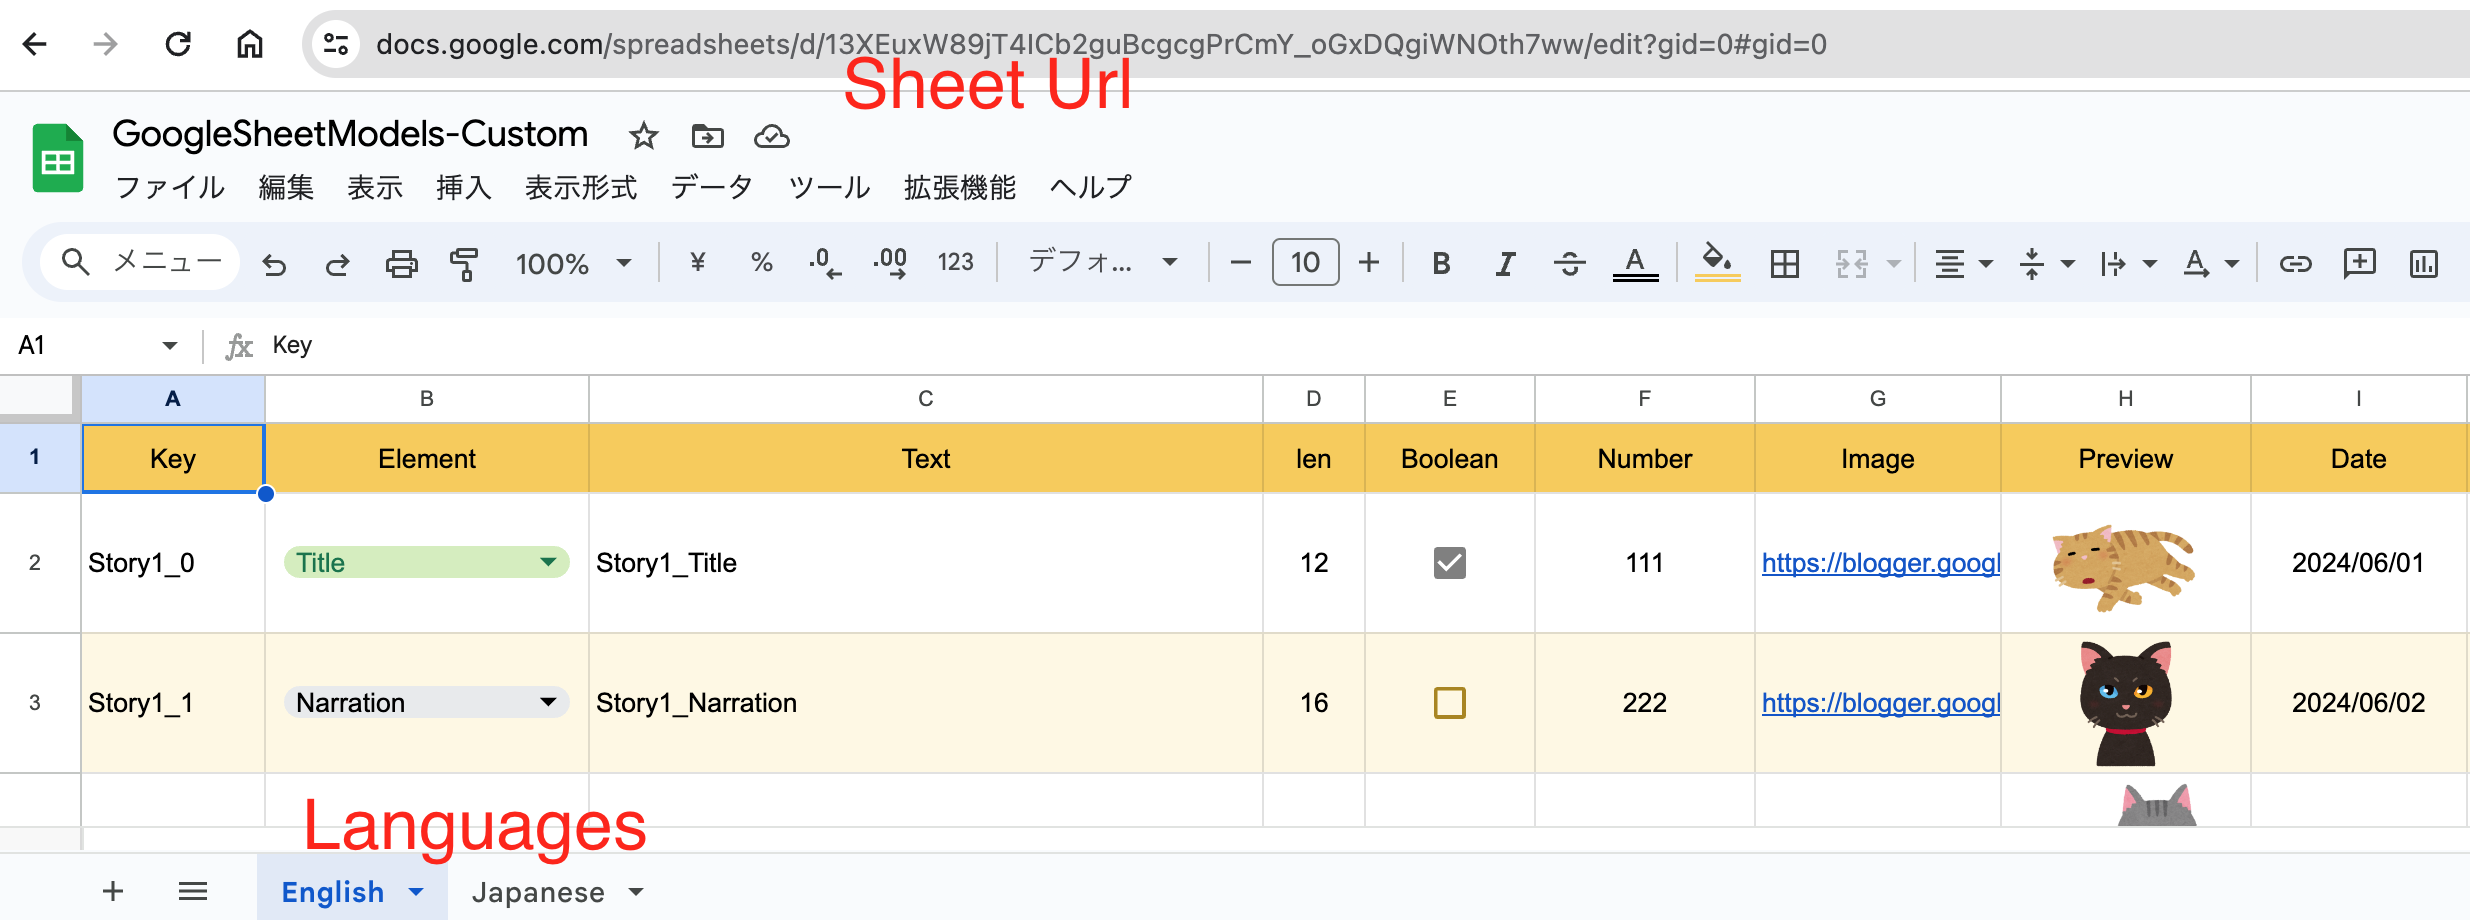
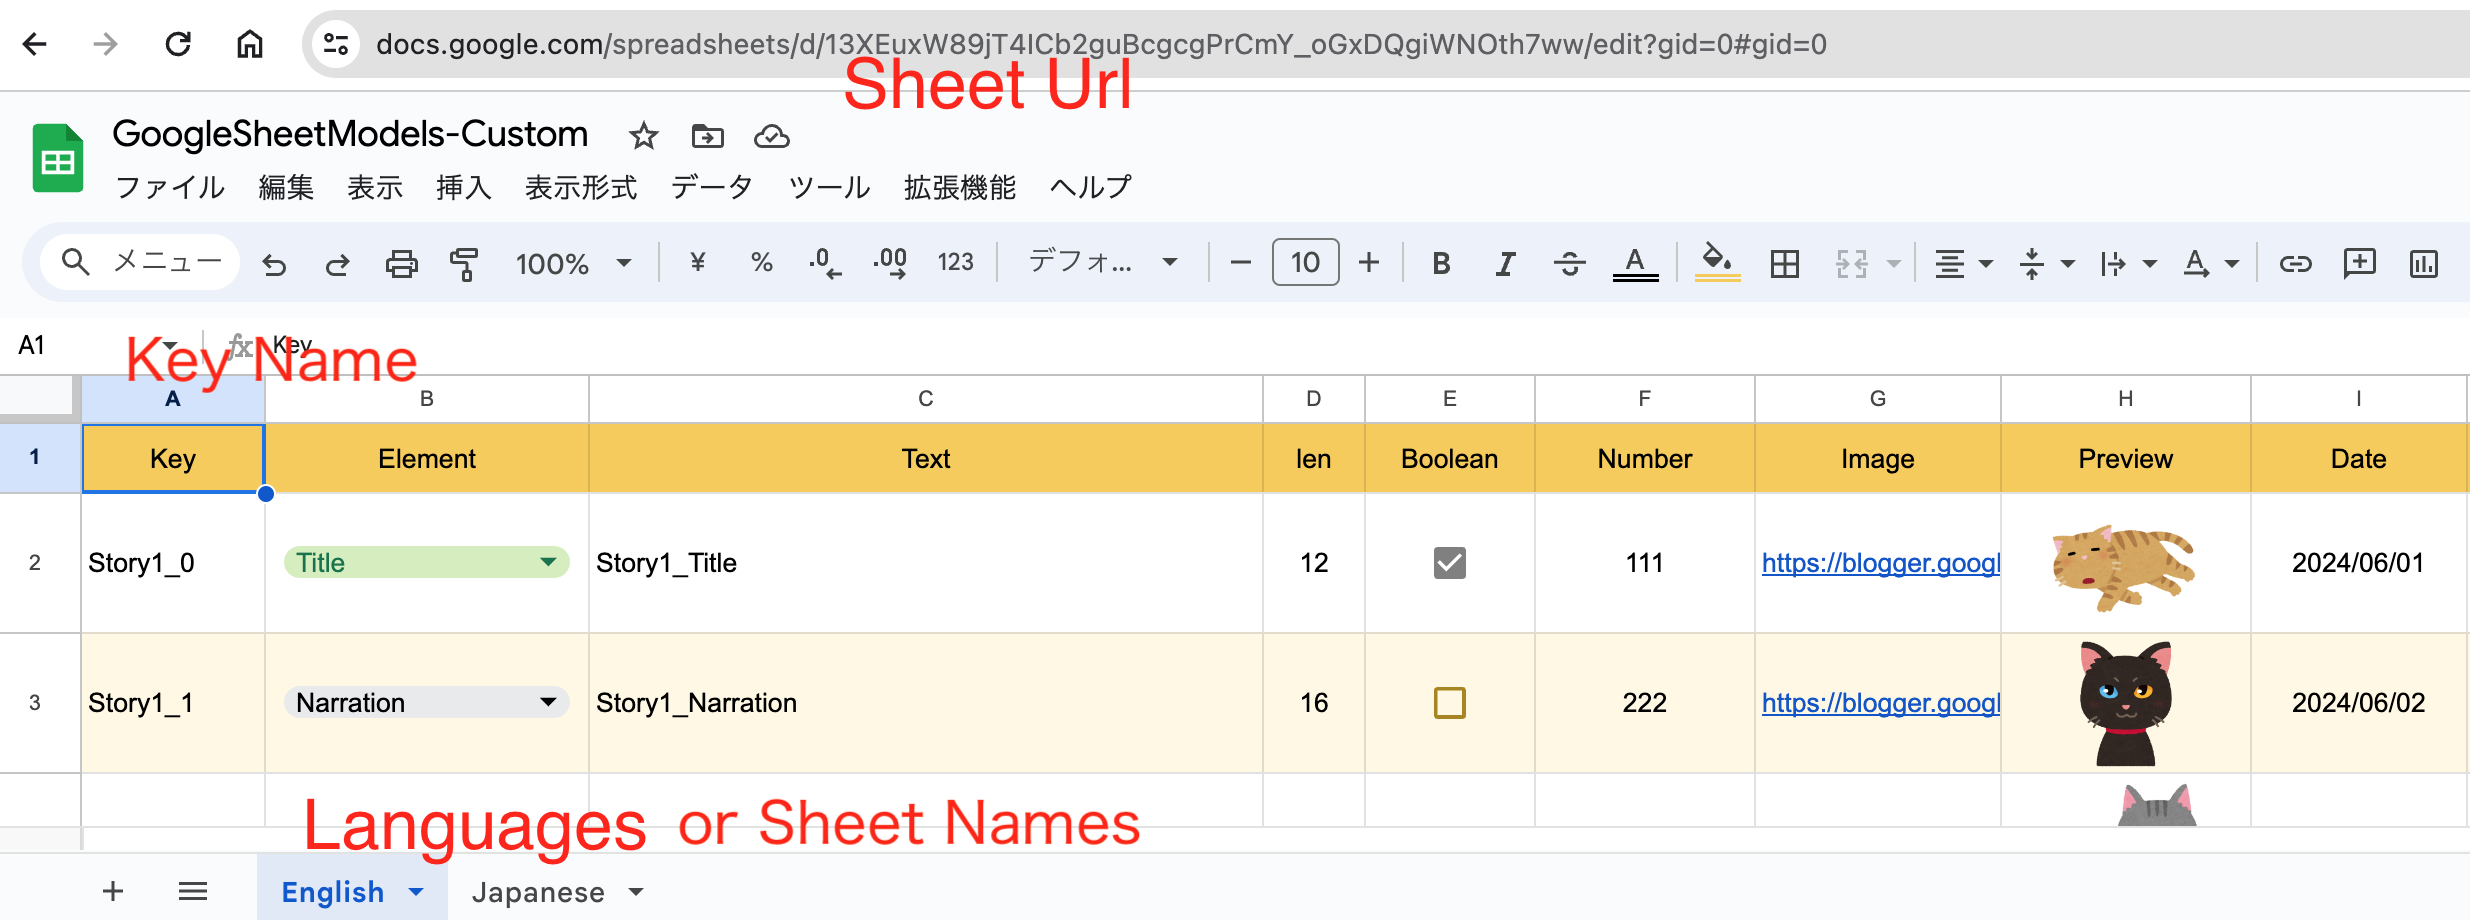
docs: enhance Google Sheets integration docs and examples

Changed region(s): [[0.0312, 0.3652, 0.187, 0.4261], [0.2806, 0.8522, 0.4676, 0.913]]

diff --git a/docs/IntegrationWithGoogleSheet_jp.md b/docs/IntegrationWithGoogleSheet_jp.md
@@ -156,6 +156,8 @@ public sealed class InitializeLocalizationTest : MonoBehaviour
 
 ### スプレッドシートの生成
 
+初めての場合は、分かりやすいようにサンプルのシートをコピーして使うと内容が理解しやすいです。
+
 - [スプレッドシートのサンプル](https://docs.google.com/spreadsheets/d/13XEuxW89jT4ICb2guBcgcgPrCmY_oGxDQgiWNOth7ww)を開く
 - 「ファイル > コピーを作成」でコピーしてください
 - コピーしたファイルに[共有設定](InitialSetupOfGoogleSheet_jp.md#スプレッドシートの共有設定)をしてください
@@ -168,33 +170,60 @@ Project上を右クリックし「CMSuniVortex > create CuvImporter」から`Cuv
 
 生成したCuvImporterの「Script Generator」ボタンをクリック
 
-![](assets/open_generator.png)
+<img src="assets/open_generator.png" width="600"/>
 
 ### スクリプト生成
 
 必要情報を入力して生成してください。
 
+<img src="assets/googleSheet/generate.jpg" width="600"/>
+
 |                 | explanation                   | e.g.                |
 |-----------------|-------------------------------|---------------------|
-| Full Class Name | クラス名を指定。namespaceを指定する事も可能です。 | namespace.ClassName |
-| Build Path      | コードを生成するディレクトリのパスを指定          | Assets/Models/      |
+| Full Class Name  | クラス名を指定。namespaceを指定する事も可能です。 | namespace.ClassName |
+| Build Path       | コードを生成するディレクトリのパスを指定         | Assets/Scripts/     |
+| Use addressables | addressablesを利用をするコードを出力するか？ |                     |
+| Use localization | ローカライズで使用するコードを出力するか？        |                     |
+| Generate output  | outputに関するコードを出力するか？         |                     |
 
-<img src="assets/googleSheet/generate.png" width="600"/>
+#### 例) Test.Metaというクラス名で生成した場合
+
+下記のようなクラスが選択した内容によって生成されます。
+
+| Client                                                             | Type                  |
+|--------------------------------------------------------------------|-----------------------|
+| Test.MetaCustomGoogleSheetCuvClient                                | 通常                    |
+| Test.MetaAddressableCustomGoogleSheetCuvAddressableClient          | Addressables          |
+| Test.MetaCustomGoogleSheetCuvLocalizedClient                       | ローカライズ                |
+| Test.MetaAddressableCustomGoogleSheetCuvAddressableLocalizedClient | Addressables + ローカライズ |
+
+| Output                                                    | Type         |
+|-----------------------------------------------------------|--------------|
+| Test.MetaCustomGoogleSheetCuvOutput                       | 通常           |
+| Test.MetaAddressableCustomGoogleSheetCuvAddressableOutput | Addressables |
 
 ### CuvImporterに必要情報の入力
 
 生成したClientを選択します。
 
+- Addressablesを利用する場合は、Addressableという名称が含まれるClientを指定してください
+- ローカライズが必要な場合は、Localizedが名称に含まれるClientを指定してください
+
 <img src="assets/googleSheet/select_client.png" width="600"/>
 
-情報を入力します。
+必要情報を入力します。
 
-|            | explanation                     | e.g.                                             |
-|------------|---------------------------------|--------------------------------------------------|
-| Build Path | アセットを生成するパス                     | Assets/Generated/ |
-| Languages  | 言語を指定、利用していなくても必ず1つ選択する必要があります。 | English |
-| Sheet Url   | スプレッドシートのURLを指定  | https://docs.google.com/spreadsheets/d/sheetID/|
-| Json Key Path   | サービスアカウントを保存したパス  | Assets/GoogleSheetTest/light-operator-x-x-x.json |
+<img src="assets/googleSheet/set_details.jpg" width="600"/>
+
+|                       | explanation                 | e.g.                                             |
+|-----------------------|-----------------------------|--------------------------------------------------|
+| Build Path            | アセットを生成するパス                 | Assets/Generated/                                |
+| Sheet Url             | スプレッドシートのURLを指定             | https://docs.google.com/spreadsheets/d/sheetID/  |
+| Json Key Path         | サービスアカウントを保存したパス            | Assets/GoogleSheetTest/light-operator-x-x-x.json |
+| Key Name              | シートに必ず必要なユニークなキーの名称を変更できます。 | Key                                              |
+| Sheet Names           | シート名を指定、必ず1つ指定する必要があります。    | Sheet1                                           |
+| [ローカライズの場合] Languages | 言語を指定、必ず1つ指定する必要があります。      | English                                          |
+
 
 ![](assets/googleSheet/custom_sheet.png)
 
@@ -210,18 +239,16 @@ Project上を右クリックし「CMSuniVortex > create CuvImporter」から`Cuv
 
 <img src="assets/googleSheet/output_custom.png" width="600"/>
 
-### 取得と表示
-
-Simpleを参照してください。
-
 ### 必ずKeyを設定する
 シートは1番目の`Key`を必ず設定してください。またそのキーは重複しないように注意してください。
 
 ## カスタム方法
 
+生成したクラス、今回だと`Meta`クラスのデシリアライズ時(シートのデータを`ScriptableObject`化する時)にどのような処理をしているかを確認します。
+
 ![](assets/googleSheet/custom_sheet_get_text.png)
 
-シートの'Text'列はモデルの`Text = GetString("Text");`で取得できます。
+シートの'Text'列は`Text = GetString("Text");`で取得しています。
 
 ```csharp
 public sealed class Meta : CustomGoogleSheetModel
@@ -269,19 +296,10 @@ public sealed class MetaAddressable : CustomGoogleSheetModel
 }
 ```
 
-### 追加
+### 値の追加
 追加方法を説明します。まずEnglishのシートにFloatを追加してみたいと思います。
 
 ![](assets/googleSheet/custom_sheet_add_flort.png)
-
-`Japanese`は、翻訳が必要なところ以外は`English`のシートをインポートすると楽です。`English`のE〜Jのセルを`IMPORTRANGE`関数で表示しています。
-
-```javascript
-// Sheet url, Sheet name + cells
-=IMPORTRANGE("https://docs.google.com/spreadsheets/d/13XEuxW89jT4ICb2guBcgcgPrCmY_oGxDQgiWNOth7ww/", "English!E:J")
-```
-
-![](assets/googleSheet/custom_sheet_add_flort2.png)
 
 Floatを生成したモデルに追加し、デシリアライズ処理を追加します。
 
@@ -320,6 +338,22 @@ public sealed class Meta : CustomGoogleSheetModel
 この要領で削除したり追加したりして自分のオリジナルのシートを作ってみてください。
 
 ![](assets/googleSheet/custom_sheet_add_flort3.png)
+
+### GoogleSheetのインポート
+
+> [!TIP]
+> `Japanese`は、翻訳が必要なところ以外は`English`のシートをインポートすると楽です。下記は、`English`のE〜Jのセルを`IMPORTRANGE`関数で表示しています。
+
+```javascript
+// Sheet url, Sheet name + cells
+=IMPORTRANGE("https://docs.google.com/spreadsheets/d/13XEuxW89jT4ICb2guBcgcgPrCmY_oGxDQgiWNOth7ww/", "English!E:J")
+```
+
+![](assets/googleSheet/custom_sheet_add_flort2.png)
+
+### 取得と表示
+
+Simpleを参照してください。
 
 ## Google API ライブラリ
 

diff --git a/docs/IntegrationWithGoogleSheet.md b/docs/IntegrationWithGoogleSheet.md
@@ -158,6 +158,8 @@ You can freely change anything other than the first Key of the spreadsheet. Scri
 
 ### Generating the Spreadsheet
 
+For first-time users, it's easier to understand by copying and using the sample sheet.
+
 - Open the [sample spreadsheet](https://docs.google.com/spreadsheets/d/13XEuxW89jT4ICb2guBcgcgPrCmY_oGxDQgiWNOth7ww).
 - Make a copy by going to "File > Make a Copy"
 - Please set the [sharing settings](InitialSetupOfGoogleSheet.md#Sharing-settings-of-the-spreadsheet) on the copied file.
@@ -170,33 +172,59 @@ Right-click on the Project and select `CuvImporter` from "CMSuniVortex > create 
 
 Click on the "Script Generator" button of the generated CuvImporter
 
-![](assets/open_generator.png)
+<img src="assets/open_generator.png" width="600"/>
 
 ### Script Generation
 
 Please enter the necessary information and generate.
 
-|                 | explanation                   | e.g.                |
-|-----------------|-------------------------------|---------------------|
-| Full Class Name | Specify the class name. You can also specify the namespace. | namespace.ClassName |
-| Build Path      | Specify the directory path to generate the code          | Assets/Models/     
+<img src="assets/googleSheet/generate.jpg" width="600"/>
 
-<img src="assets/googleSheet/generate.png" width="600"/>
+|                  | explanation                                                 | e.g.                |
+|------------------|-------------------------------------------------------------|---------------------|
+| Full Class Name  | Specify the class name. You can also specify the namespace. | namespace.ClassName |
+| Build Path       | Specify the directory path to generate the code             | Assets/Models/      
+| Use addressables | Output code using addressables?                             |                     |
+| Use localization | Output code for localization?                               |                     |
+| Generate output  | Output code for output?                                     |                     |
+
+#### Example) When generating with class name Test.Meta
+
+The following classes will be generated based on your selections:
+
+| Client                                                             | Type                        |
+|--------------------------------------------------------------------|-----------------------------|
+| Test.MetaCustomGoogleSheetCuvClient                                | Normal                      |
+| Test.MetaAddressableCustomGoogleSheetCuvAddressableClient          | Addressables                |
+| Test.MetaCustomGoogleSheetCuvLocalizedClient                       | Localization                |
+| Test.MetaAddressableCustomGoogleSheetCuvAddressableLocalizedClient | Addressables + Localization |
+
+| Output                                                    | Type         |
+|-----------------------------------------------------------|--------------|
+| Test.MetaCustomGoogleSheetCuvOutput                       | Normal       |
+| Test.MetaAddressableCustomGoogleSheetCuvAddressableOutput | Addressables |
 
 ### Enter Required Information in CuvImporter
 
 Select the generated Client.
 
+- If you are using Addressables, please specify a Client that includes "Addressable" in its name
+- If localization is required, please specify a Client that includes "Localized" in its name
+
 <img src="assets/googleSheet/select_client.png" width="600"/>
 
 Enter the information.
 
-|            | explanation                     | e.g.                
-|------------|---------------------------------|-----------------------------------------------|
-| Build Path | Path to generate assets         | Assets/Generated/
-| Languages  | Specify the language, even if not in use, you must select at least one. | English
-| Sheet Url   | Specify the URL of the spreadsheet  | https://docs.google.com/spreadsheets/d/sheetID/
-| Json Key Path   | Path where the service account is saved  | Assets/GoogleSheetTest/light-operator-x-x-x.json 
+<img src="assets/googleSheet/set_details.jpg" width="600"/>
+
+|                              | explanation                                          | e.g.                                             |
+|------------------------------|------------------------------------------------------|--------------------------------------------------|
+| Build Path                   | Path to generate assets                              | Assets/Generated/                                |
+| Sheet Url                    | Specify the spreadsheet URL                          | https://docs.google.com/spreadsheets/d/sheetID/  |
+| Json Key Path                | Path where service account is saved                  | Assets/GoogleSheetTest/light-operator-x-x-x.json |
+| Key Name                     | You can change the required unique key name in sheet | Key                                              |
+| Sheet Names                  | Specify sheet name, at least one required            | Sheet1                                           |
+| [For localization] Languages | Specify language, at least one required              | English                                          |
 
 ![](assets/googleSheet/custom_sheet.png)
 
@@ -212,14 +240,13 @@ Specify how to reference. This time, we specified the 'CustomGoogleSheetCuvOutpu
 
 <img src="assets/googleSheet/output_custom.png" width="600"/>
 
-### Acquisition and Display
-
-Refer to Simple.
-
 ### Always Set Key
 Please be sure to set the first 'Key' of the sheet. Also, make sure that this key is not duplicated.
 
 ## Custom Method
+
+Let's check how the deserialization process works (when converting sheet data to ScriptableObject) for the generated
+class, in this case, the `Meta` class.
 
 ![](assets/googleSheet/custom_sheet_get_text.png)
 
@@ -276,14 +303,6 @@ We will explain how to add. First, we want to try adding a Float to the English 
 
 ![](assets/googleSheet/custom_sheet_add_flort.png)
 
-For `Japanese`, it's easier to import from the `English` sheet, except for areas that require translation. We're displaying cells E to J of `English` using the `IMPORTRANGE` function.
-
-```javascript
-// Sheet url, Sheet name + cells
-=IMPORTRANGE("https://docs.google.com/spreadsheets/d/13XEuxW89jT4ICb2guBcgcgPrCmY_oGxDQgiWNOth7ww/", "English!E:J")
-```
-
-![](assets/googleSheet/custom_sheet_add_flort2.png)
 
 We add Float to the generated model and add deserialization processing.
 
@@ -321,6 +340,23 @@ After adding, we import.
 If it's added without any errors, like shown below, then it's complete. By removing or adding in this manner, try creating your own original sheet.
 
 ![](assets/googleSheet/custom_sheet_add_flort3.png)
+
+### Importing Google Sheet
+
+> [!TIP]
+> For the `Japanese` sheet, it's easier to import from the `English` sheet except for parts that need translation. Below
+> shows the `English` sheet cells E to J displayed using the `IMPORTRANGE` function.
+
+```javascript
+// Sheet url, Sheet name + cells
+=IMPORTRANGE("https://docs.google.com/spreadsheets/d/13XEuxW89jT4ICb2guBcgcgPrCmY_oGxDQgiWNOth7ww/", "English!E:J")
+```
+
+![](assets/googleSheet/custom_sheet_add_flort2.png)
+
+### Acquisition and Display
+
+Refer to Simple.
 
 ## Google API Libraries
 

diff --git a/README.md b/README.md
@@ -85,7 +85,7 @@ You can specify how to refer to the data you have output.
 
 ## Upgrading from 1.X to 2.X
 
-> [!IMPORTANT]
+> [!CAUTION]
 > **2.X upgrade contains breaking changes. Please make sure to backup before upgrading.**
 
 Specifically, we separated classes that use Languages (which was mandatory in 1.X) from those that don't. As a result,

diff --git a/docs/Localization_jp.md b/docs/Localization_jp.md
@@ -1,5 +1,5 @@
 
-> [!IMPORTANT]
+> [!CAUTION]
 > **2.Xではローカライズ機能が強化されましたが、アップグレードには破壊的な変更が含まれます。アップグレードの前に必ずバックアップを取ってください。**
 
 ## ローカライズを利用する - スクリプトの生成

diff --git a/docs/Localization.md b/docs/Localization.md
@@ -1,7 +1,7 @@
 
 [日本語](Localization_jp.md)
 
-> [!IMPORTANT]
+> [!CAUTION]
 > **Version 2.X includes enhanced localization features but contains breaking changes. Be sure to backup before
 upgrading.**
 
